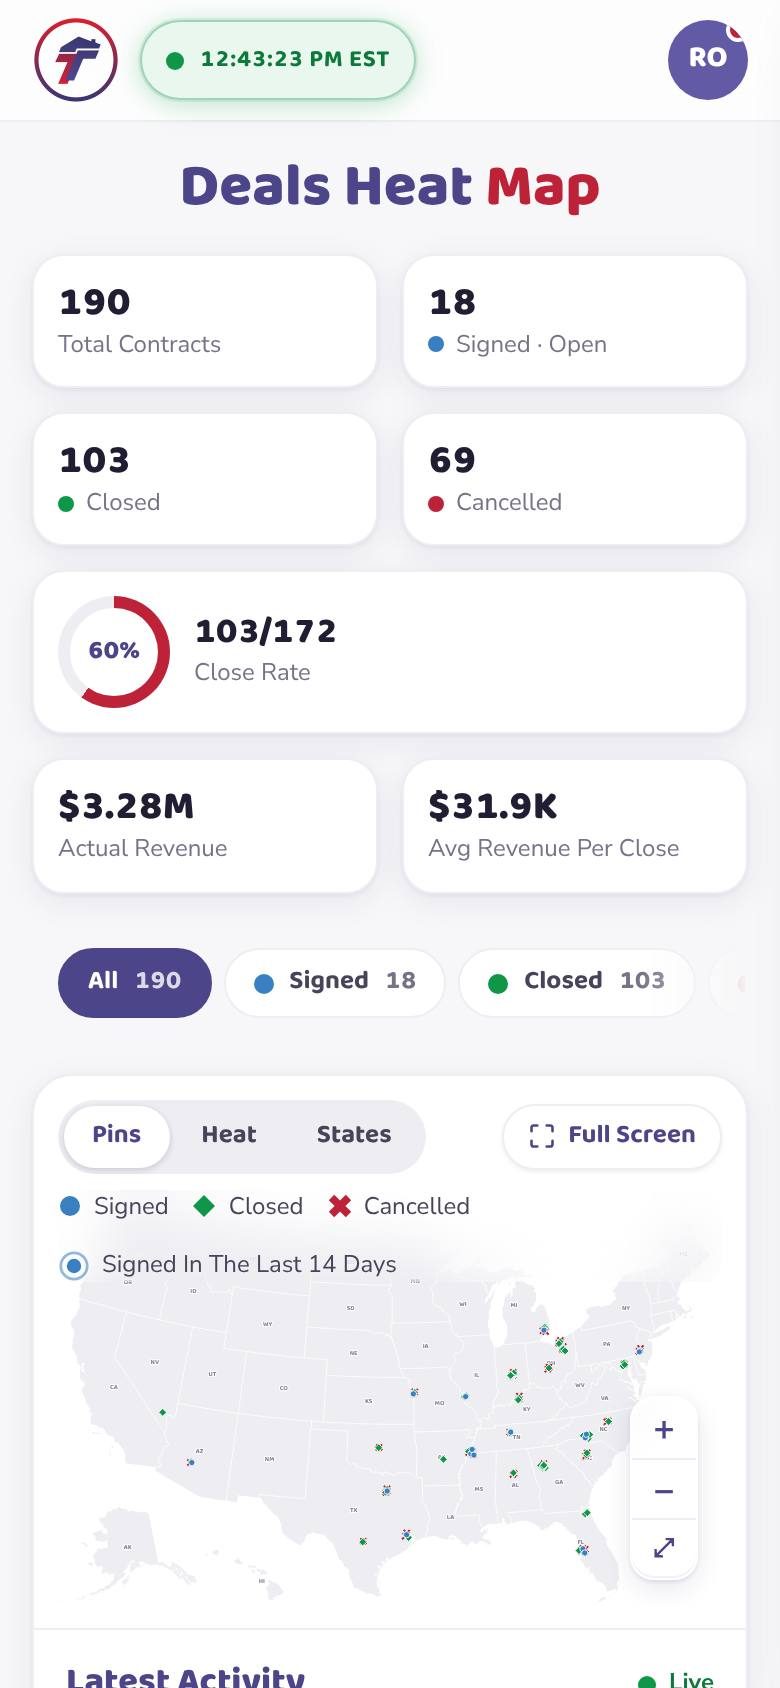
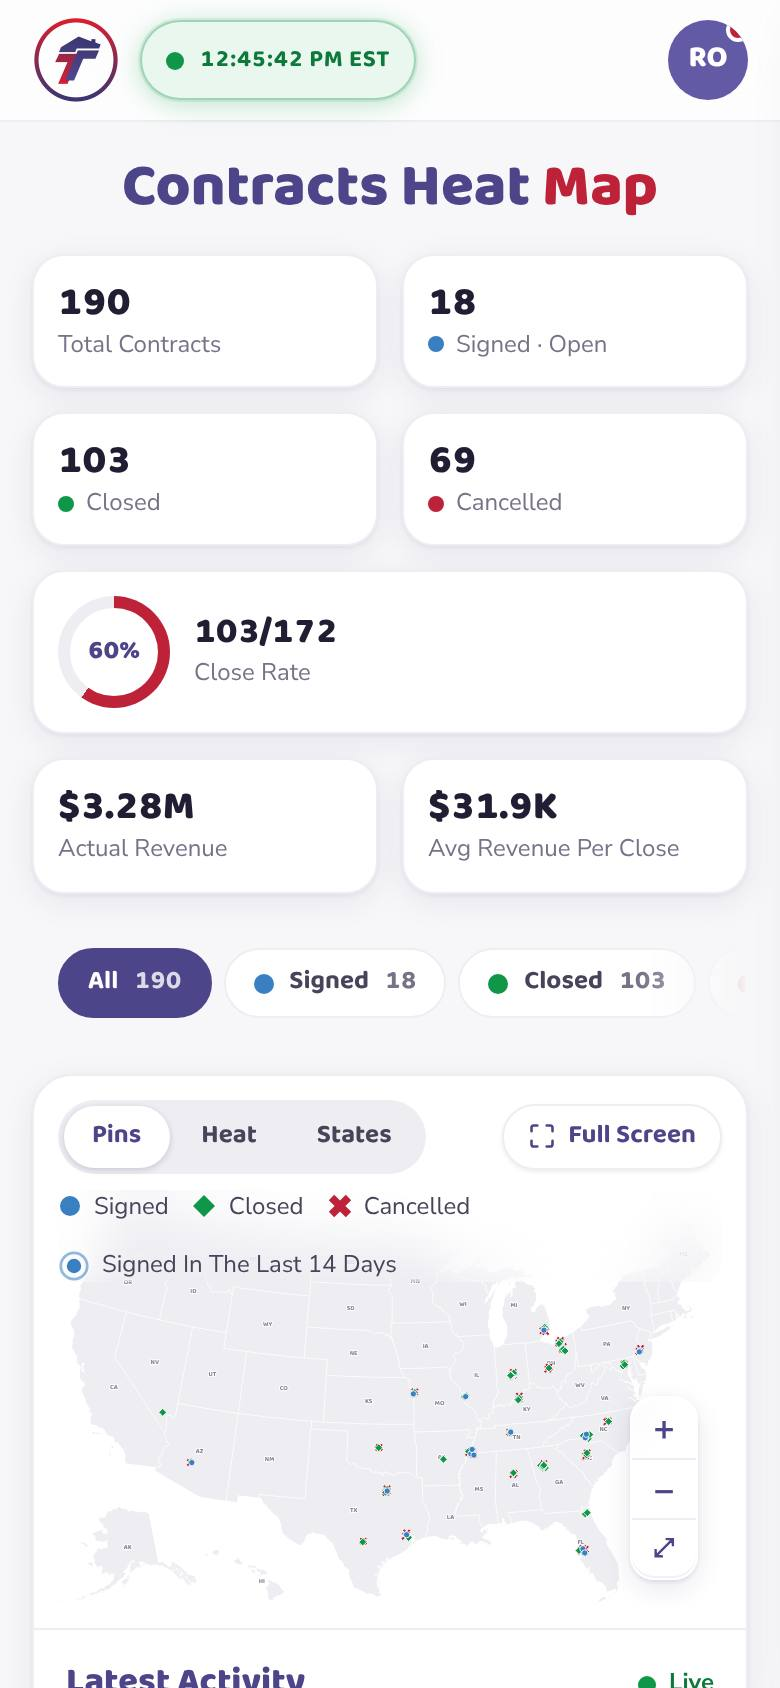
Rename the app to Contracts Heat Map
Page title, sign-in screen, header title, guide and README.

Claude-Session: https://claude.ai/code/session_01XVoXRYiHA4GQod2Bn6LQ1P

Changed region(s): [[0.1538, 0.0924, 0.8615, 0.1232], [0.3385, 0.0308, 0.3692, 0.0616]]

diff --git a/index.html b/index.html
@@ -5,7 +5,7 @@
 <meta name="viewport" content="width=device-width,initial-scale=1,viewport-fit=cover">
 <link rel="icon" type="image/png" href="favicon.png">
 <link rel="apple-touch-icon" href="tchb-mark.png">
-<title>Deals Heat Map</title>
+<title>Contracts Heat Map</title>
 <link rel="preconnect" href="https://fonts.googleapis.com">
 <link rel="preconnect" href="https://fonts.gstatic.com" crossorigin>
 <link rel="stylesheet" href="https://fonts.googleapis.com/css2?family=Baloo+2:wght@500;600;700;800&family=Nunito+Sans:wght@400;600;700;800&display=swap">
@@ -606,7 +606,7 @@ td.addr{font-weight:700;color:var(--text-strong)}
 <div class="gate" id="gate">
   <div class="gate-card">
     <img class="logo lt" src="tchb-logo.png" alt="Total Cash Home Buyers"><img class="logo dk" src="tchb-logo-dark.png" alt="Total Cash Home Buyers">
-    <h1 class="title" style="font-size:36px">Deals Heat <span>Map</span></h1>
+    <h1 class="title" style="font-size:36px">Contracts Heat <span>Map</span></h1>
     <p class="muted" id="gateMsg">Sign in with your company Google account.</p>
     <button class="btn pri" id="signIn" hidden>Sign In With Google</button>
   </div>
@@ -634,7 +634,7 @@ td.addr{font-weight:700;color:var(--text-strong)}
 
 <main class="wrap">
   <div>
-    <h1 class="title">Deals Heat <span>Map</span></h1>
+    <h1 class="title">Contracts Heat <span>Map</span></h1>
   </div>
 
   <section class="kpis" id="kpis" aria-label="Totals"></section>
@@ -1537,7 +1537,7 @@ function closeHelp() { $('helpWin').classList.remove('open'); $('helpScrim').cla
 $('helpScrim').onclick = closeHelp;
 function renderHelp() {
   const g = GUIDES[helpKind];
-  $('helpWin').innerHTML = `<div class="dr-h"><div><h2 class="h3" id="helpTitle" style="font-size:22px">${esc(g.title)}</h2><div class="muted">The Deals Heat Map, step by step</div></div>
+  $('helpWin').innerHTML = `<div class="dr-h"><div><h2 class="h3" id="helpTitle" style="font-size:22px">${esc(g.title)}</h2><div class="muted">The Contracts Heat Map, step by step</div></div>
       <div style="display:flex;gap:10px;align-items:center">${ME.canEdit ? `<div class="seg"><button data-hk="editor" class="${helpKind === 'editor' ? 'on' : ''}">Editor Guide</button><button data-hk="viewer" class="${helpKind === 'viewer' ? 'on' : ''}">Viewer Guide</button></div>` : ''}<button class="x" data-hclose aria-label="Close">✕</button></div></div>
     <div class="help-b"><nav class="help-nav" aria-label="Sections">${g.sections.map((x, i) => `<button data-hs="${x.id}"><span class="n">${i + 1}</span><span>${esc(x.title)}</span></button>`).join('')}</nav><article class="guide" id="guide">${g.html}</article></div>`;
   const art = $('guide'), btns = [...$('helpWin').querySelectorAll('[data-hs]')];

diff --git a/docs/guide/viewer.md b/docs/guide/viewer.md
@@ -1,6 +1,6 @@
 # Viewer Guide
 
-This guide is for everyone at TCHB: what the Deals Heat Map shows and how to read it. Remy, Monz and Jan can also change contracts; their Editor Guide adds those parts.
+This guide is for everyone at TCHB: what the Contracts Heat Map shows and how to read it. Remy, Monz and Jan can also change contracts; their Editor Guide adds those parts.
 
 ## Getting Started
 

diff --git a/README.md b/README.md
@@ -1,4 +1,4 @@
-# Deals Heat Map
+# Contracts Heat Map
 
 A live map of TCHB's signed, closed and cancelled deals across the USA, with leaderboards, built in the Universal Team
 Hub's look. Deals come from GoHighLevel webhooks and are matched by **contact ID**.
